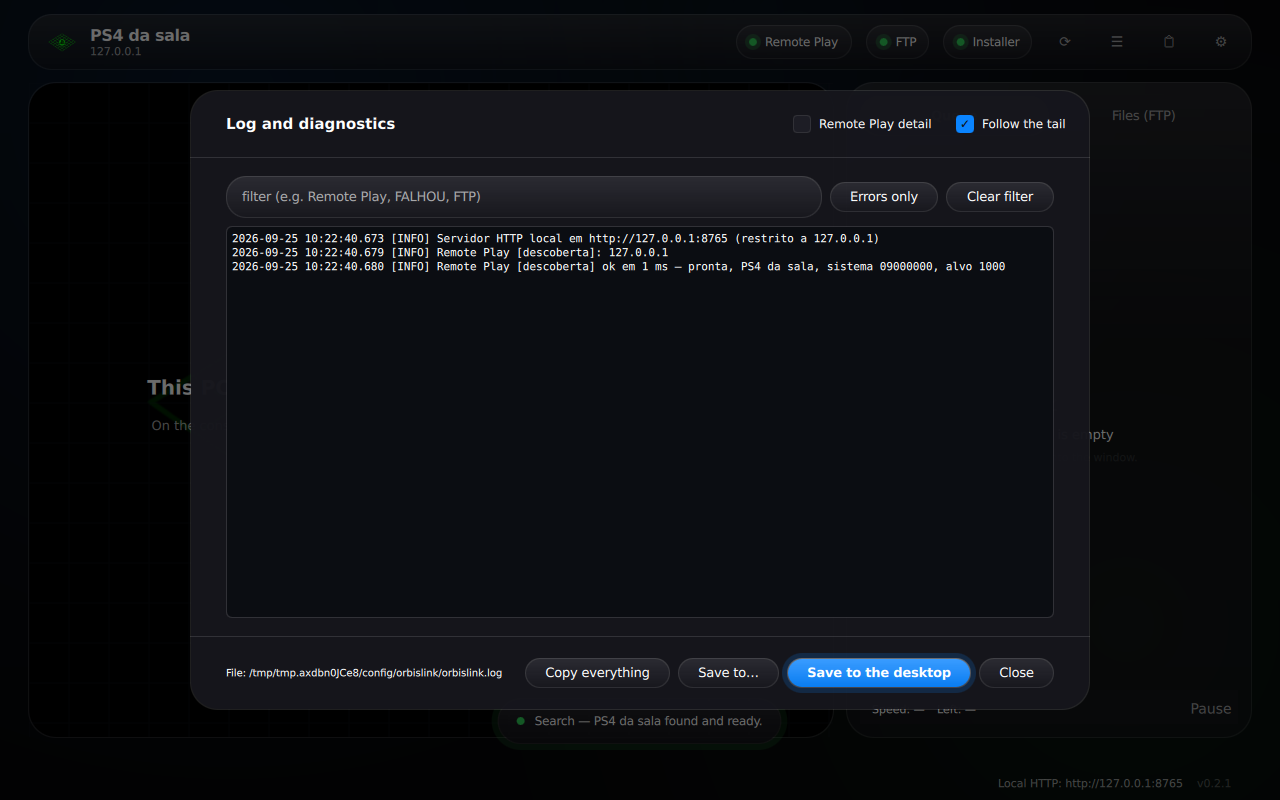
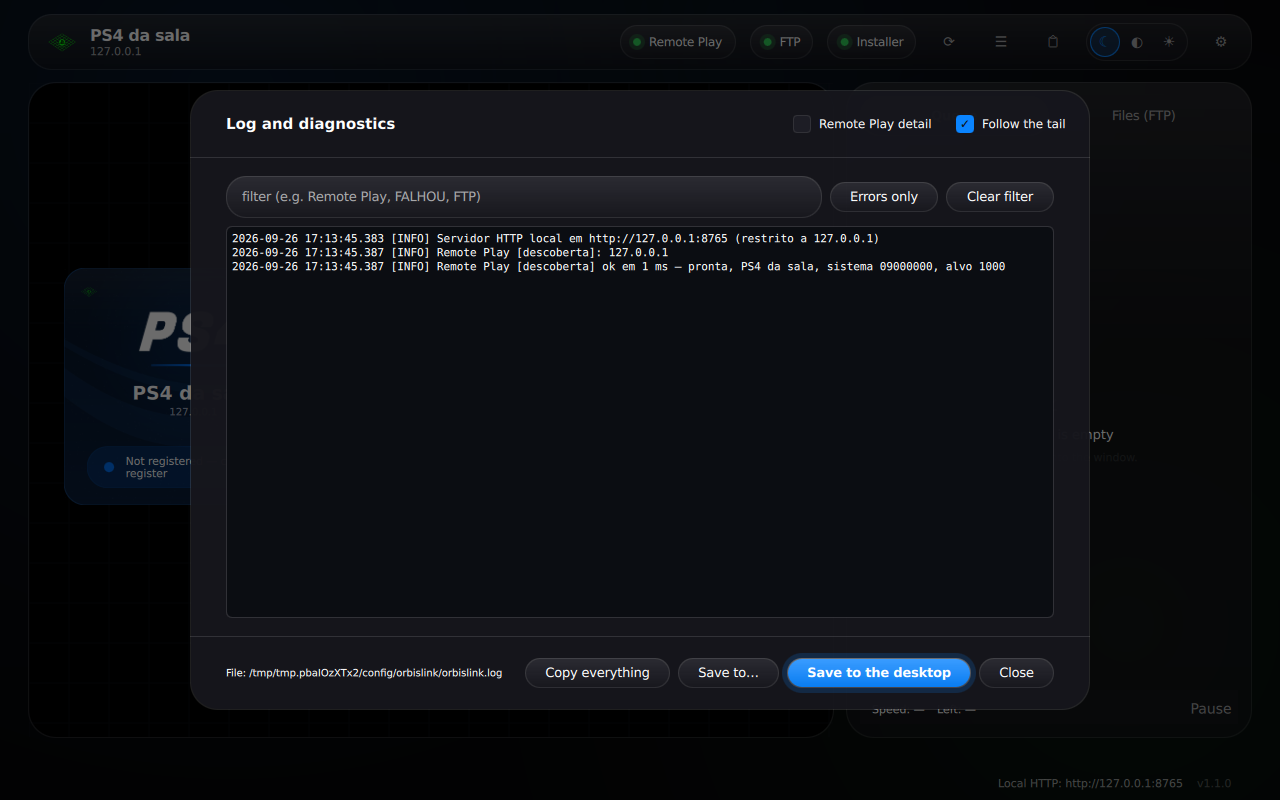
README: capturas da 1.1.0

diff --git a/README.md b/README.md
@@ -26,8 +26,17 @@ automaticamente.*
 
 ![Remote Play](docs/images/06-remote-play.png)
 
-*A área central passou a ser o Remote Play: diz em que estado está a
-consola e o que falta fazer a seguir — registar, acordar ou ligar.*
+*A área central é o Remote Play: cada consola (PS4 ou PS5) tem a sua caixa,
+com o estado dela e o que um clique faz a seguir — registar, acordar,
+procurar ou ligar. A caixa tracejada junta outra consola, procurando na
+rede ou pelo IP.*
+
+| Mapa do teclado | Tema claro |
+|---|---|
+| ![Mapa do teclado](docs/images/12-mapa-teclado.png) | ![Tema claro](docs/images/11-remote-play-claro.png) |
+
+*Sem comando ligado, o teclado faz de comando. Cada tecla pode ser mudada
+no mapa, e fica gravada.*
 
 ![Menu de ficheiro](docs/images/05-menu-ficheiro.png)
 
